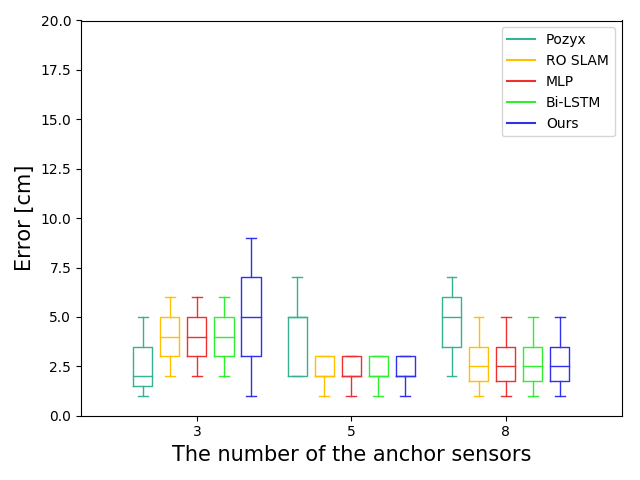
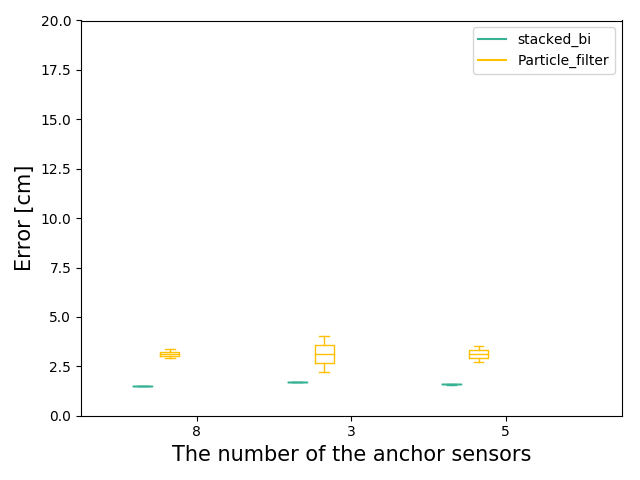
edit box_plot_drawer.py

diff --git a/lstm_codes/box_plot_drawer.py b/lstm_codes/box_plot_drawer.py
@@ -32,7 +32,8 @@ class BoxPlotModule:
         
     def do_test(self, gt_path, al_path_list):
         self.load_gt_set(gt_path)
-        self.load_al_set(al_path_list)
+        for al_path in al_path_list:
+            self.load_al_set(al_path, os.path.split(al_path)[1])
         self.get_dict_error()
         self.do()
         
@@ -59,11 +60,11 @@ class BoxPlotModule:
         
     def _read_data_from_set_(self, input_path):
         self.tmp_dict = collections.OrderedDict()
-        file_list = os.path.listdir(input_path)
+        file_list = os.listdir(input_path)
         for file_name in file_list:
             file_path = os.path.join(input_path, file_name)
-            item_name = os.path.split(file_name)[0].split('_')[1]
-            self.tmp_dict[item_name] = np.loadtxt(file_path)
+            item_name = os.path.split(file_name)[1].split('.')[0].split('_')[-1]
+            self.tmp_dict[item_name] = np.loadtxt(file_path, delimiter=',')
 
     def _set_box_color_(self, bp, color):
         self.plt.setp(bp['boxes'], color=color)
@@ -89,10 +90,11 @@ class BoxPlotModule:
         self.plt.xlabel("The number of the anchor sensors", fontsize=15)
         self.plt.ylabel("Error [cm]", fontsize=15)
         self.plt.xticks(range(offset, scale*len(ticks), scale), self.ticks)
-        self.plt.xlim(-2, scale*len(self.ticks))
+        self.plt.xlim(-scale/2, scale*len(self.ticks))
         self.plt.ylim(0, 20)
         self.plt.tight_layout()
         self.plt.savefig('boxcompare.png')
+        self.plt.show()
         
 class DataPlotModule:
     def __init__(self):
@@ -131,9 +133,9 @@ class DataPlotModule:
         
 
 if __name__ == '__main__':
-    # bpm = BoxPlotModule()
-    # bpm.do_test('gt_path',['al1', 'al2'])
-    dpm = DataPlotModule()
-    dpm.plot_data([[3, 4, 1, 5, 9],[2, 3, 1, 6, 10],[0, 2, 5, 4, 1]])
+    bpm = BoxPlotModule()
+    bpm.do_test('../../test/fc',['../../test/stacked_bi', '../../test/Particle_filter'])
+    # dpm = DataPlotModule()
+    # dpm.plot_data([[3, 4, 1, 5, 9],[2, 3, 1, 6, 10],[0, 2, 5, 4, 1]])
 
 
